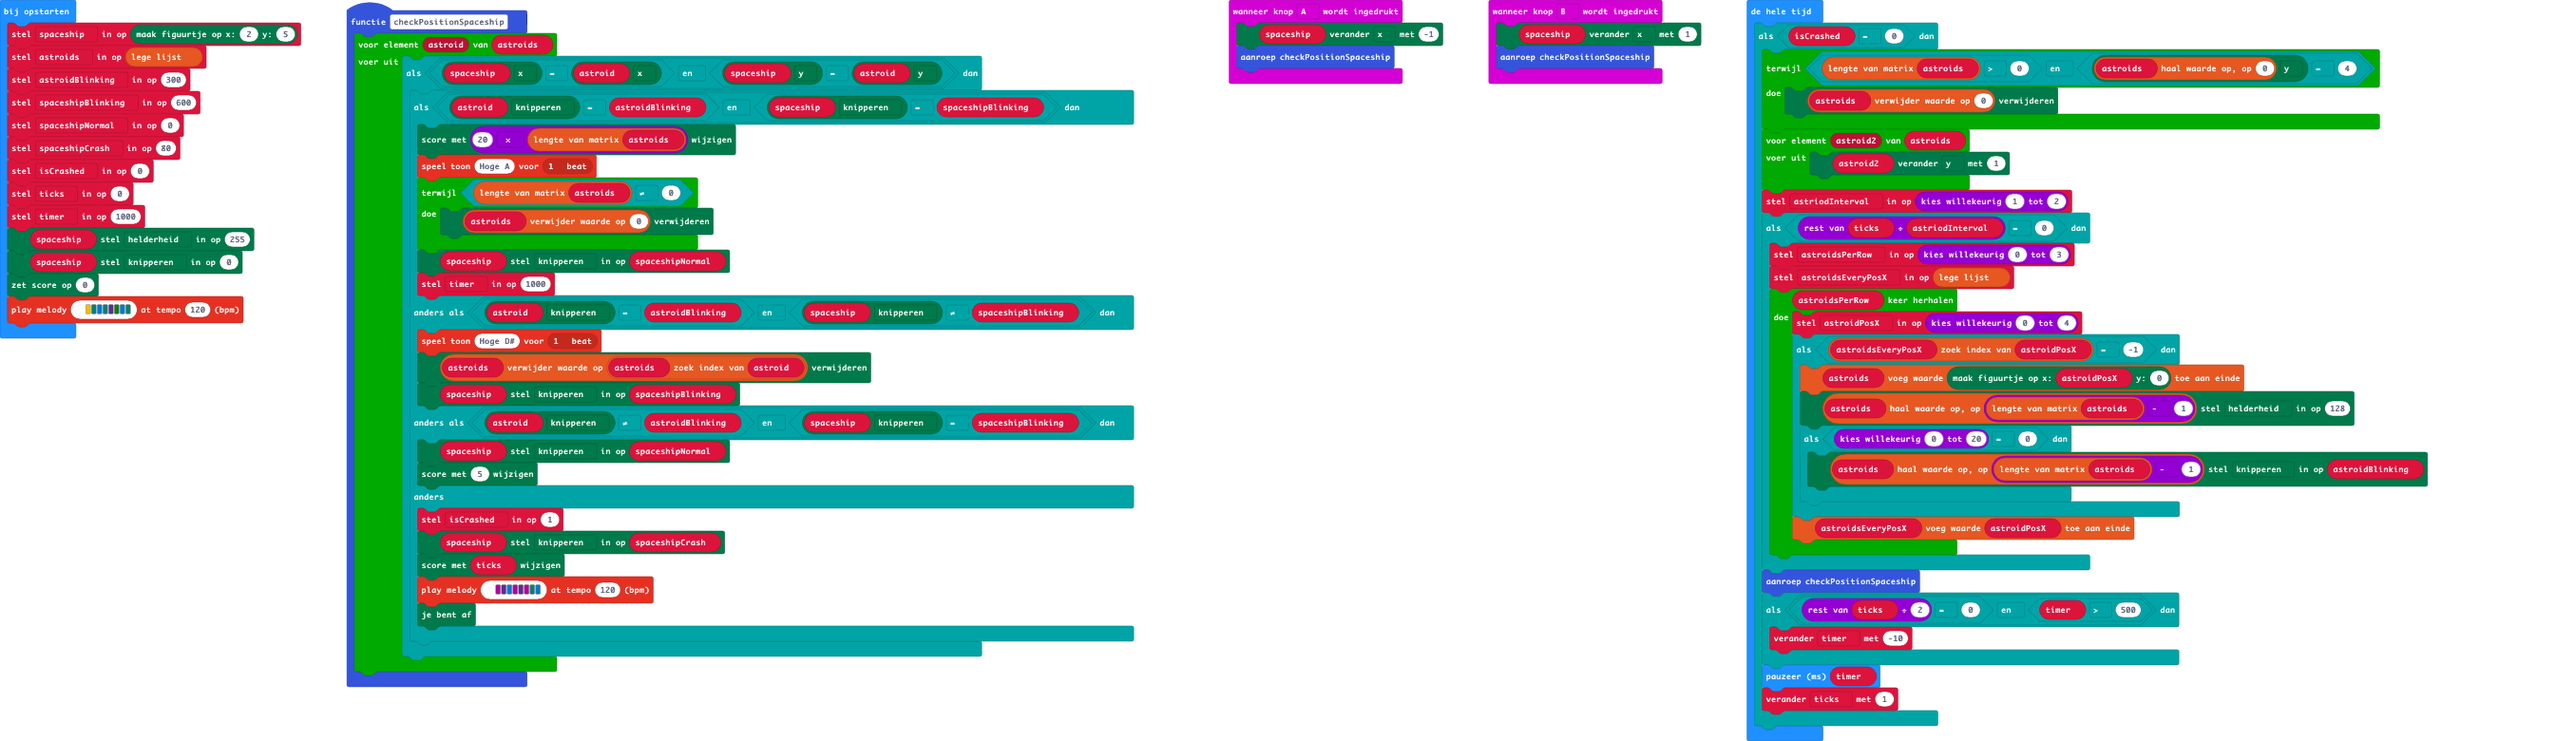
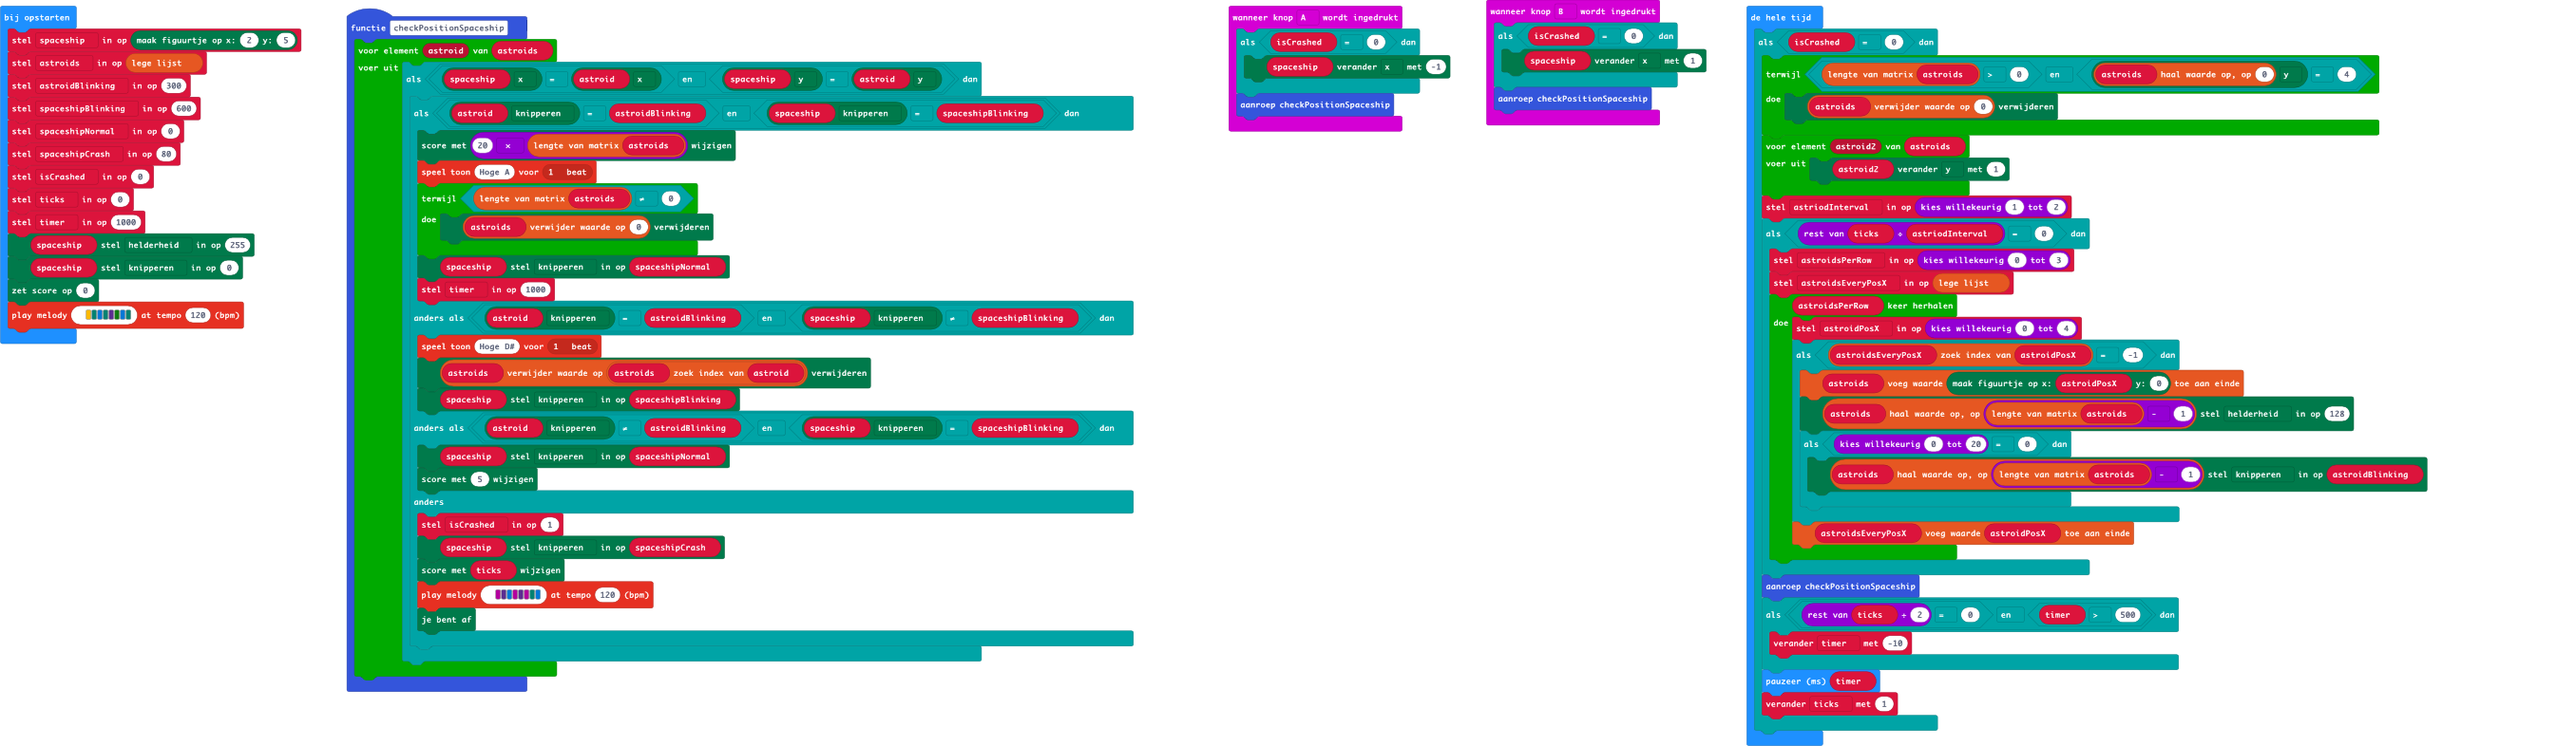
main.blocks, main.ts bijwerken

Changed region(s): [[0.0, 0.0, 0.4338, 0.8308], [0.4648, 0.0, 0.9605, 0.9538]]

diff --git a/main.ts b/main.ts
@@ -27,11 +27,15 @@ function checkPositionSpaceship () {
     }
 }
 input.onButtonPressed(Button.A, function () {
-    spaceship.change(LedSpriteProperty.X, -1)
+    if (isCrashed == 0) {
+        spaceship.change(LedSpriteProperty.X, -1)
+    }
     checkPositionSpaceship()
 })
 input.onButtonPressed(Button.B, function () {
-    spaceship.change(LedSpriteProperty.X, 1)
+    if (isCrashed == 0) {
+        spaceship.change(LedSpriteProperty.X, 1)
+    }
     checkPositionSpaceship()
 })
 let astroidPosX = 0
